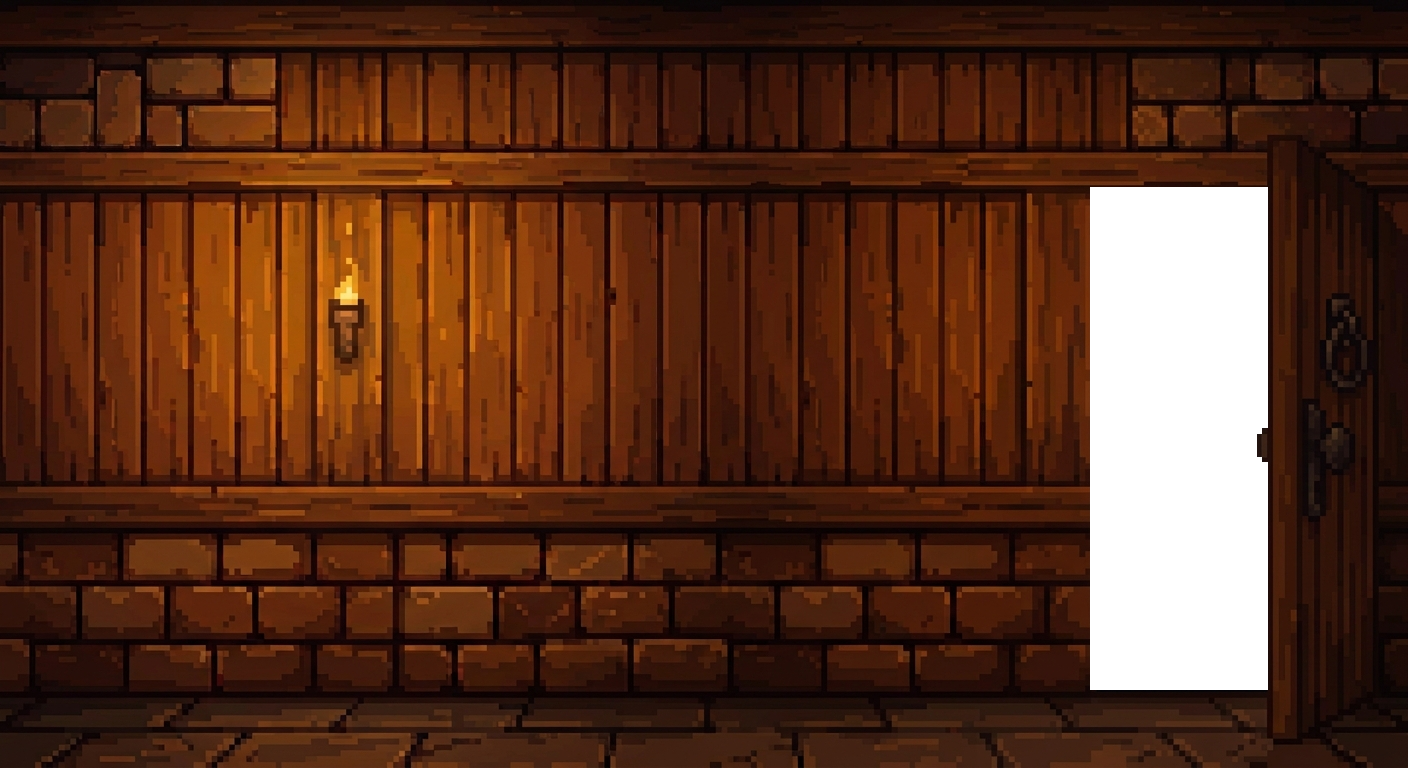
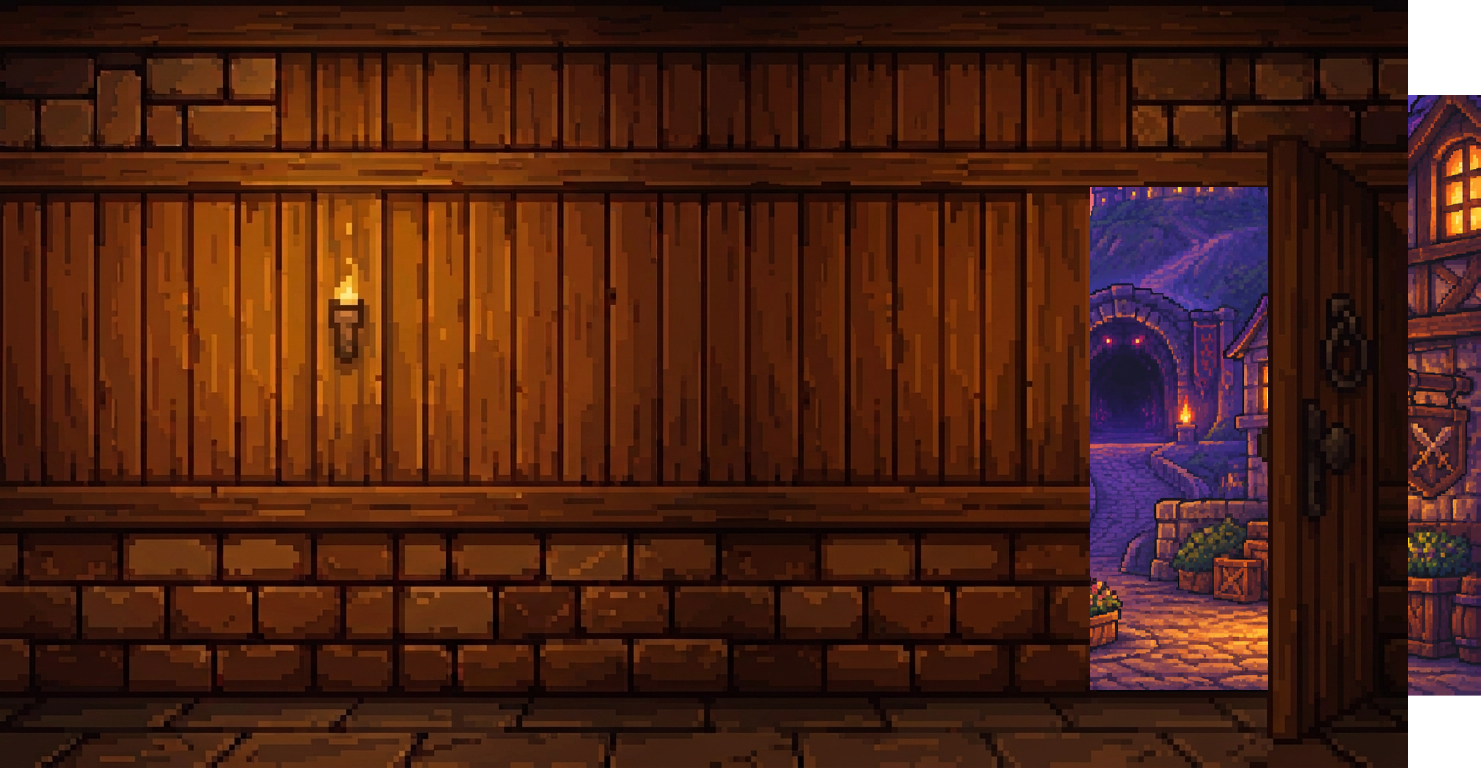
壁イラストの差し替え(開いた扉+外の街並み)に合わせてアスペクト比を修正
guild_wall.pngが1408x768から1481x768に変わったため、コンテナのaspectRatio
を実際の画像サイズに合わせて修正した。

diff --git a/src/pages/TownPage.jsx b/src/pages/TownPage.jsx
@@ -156,7 +156,7 @@ export default function TownPage({ onEnterDungeon }) {
             )}
 
             {/* ギルドの詰め所：壁に掲示板+クエスト掲示板、床に本+トロフィー */}
-            <div style={{ position:"relative", width:"100%", aspectRatio:"1408/768" }}>
+            <div style={{ position:"relative", width:"100%", aspectRatio:"1481/768" }}>
               <img src="/assets/images/guild_wall.png" alt="" style={{ width:"100%", height:"100%", display:"block" }} />
 
               {/* 掲示板：貼り紙3枚がダンジョン1/2/3。押すと「受注」印が押されてからダンジョンへ */}
